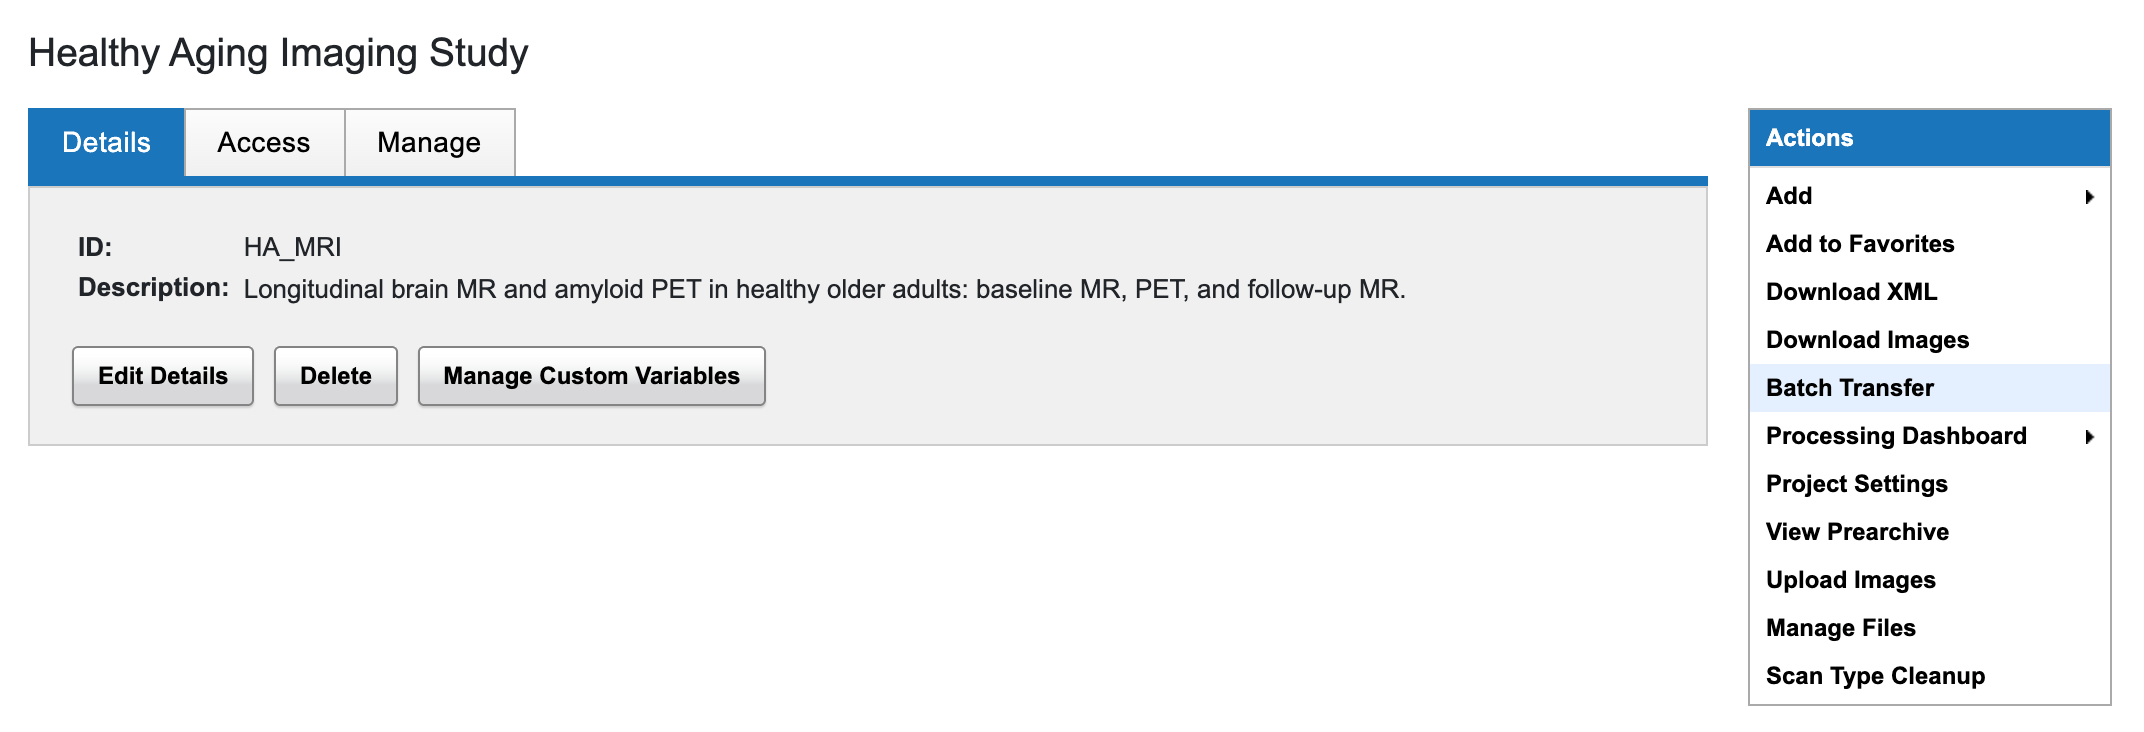
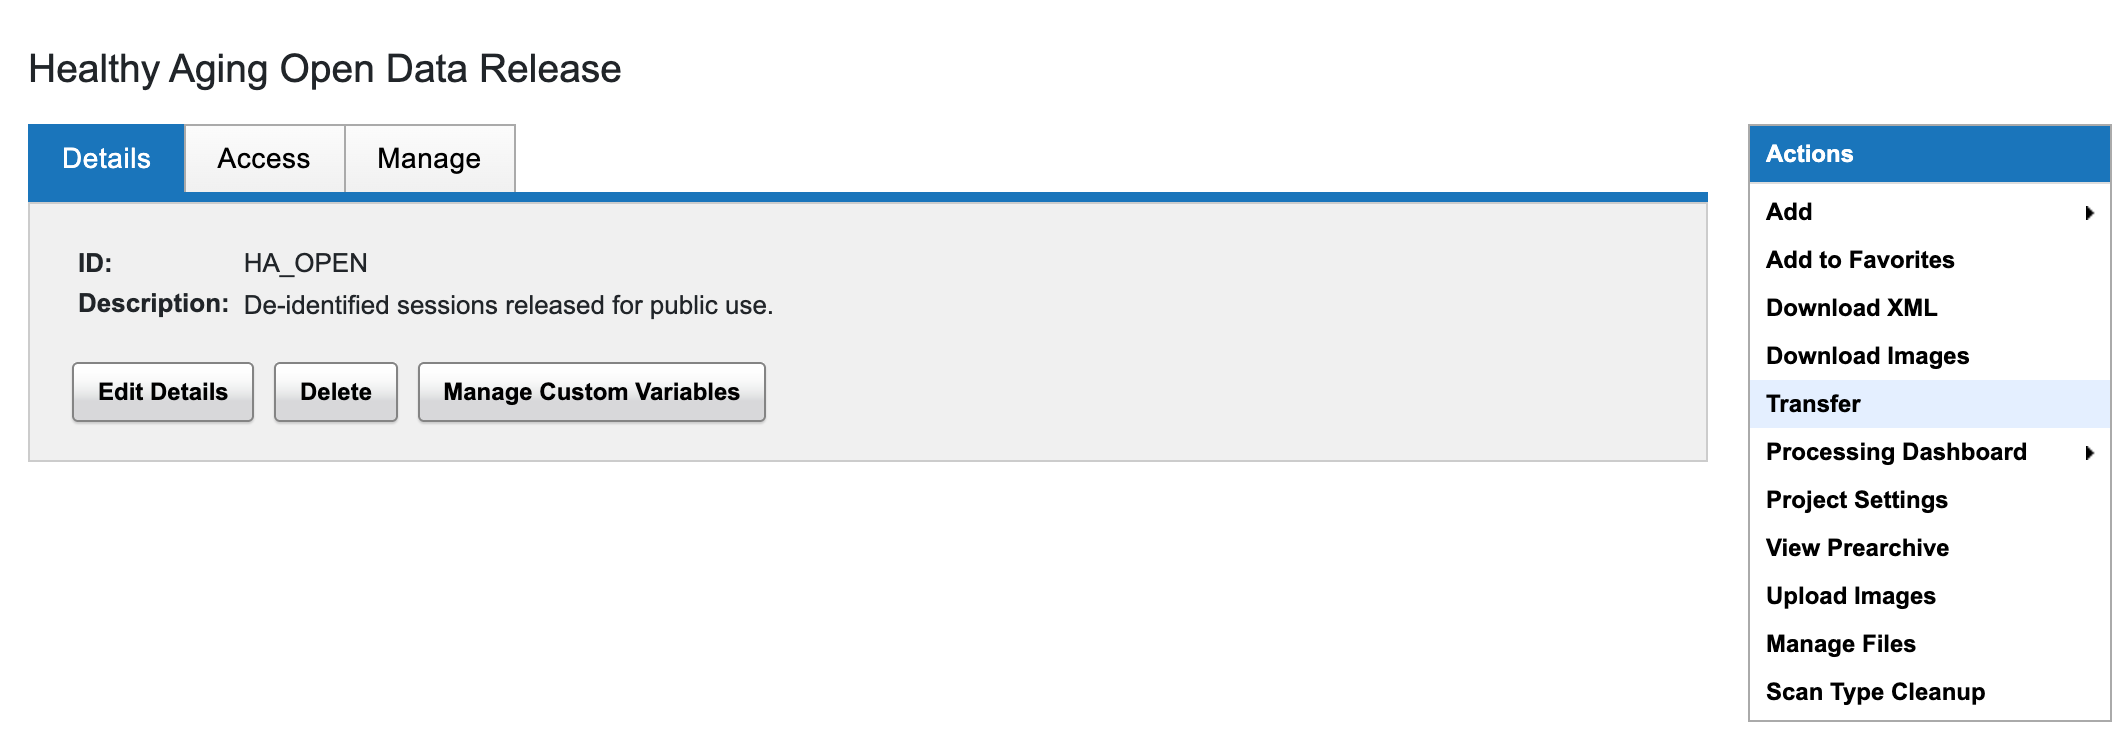
feat(ui): label the menu items Transfer and Transfer History (#40)
* feat(ui): label the menu items Transfer and Transfer History

Outside the Batch Transfer screen, the links that open it now read
"Transfer" and "Transfer History" instead of "Batch Transfer":

- a project's Actions box: Transfer (was Batch Transfer);
- a data listing's or search results' Options menu: Transfer (was
  Batch Transfer);
- the Tools menu: Transfer History (was Batch Transfer History),
  which matches the Transfer History tab in Plugin Settings.

The screen itself keeps its Batch Transfer title. The History-only
page's note and the Plugin Settings description name the new items,
as do the README, the quick start and the CHANGELOG.

* docs: retake the quick-start screenshots with the new menu labels

The Actions box, the listing's Options menu and the Tools menu now
show Transfer and Transfer History, and the History-only page and the
Plugin Settings tab show the new text that points to them. The project
page and listing shots come from HA_OPEN, since the guide's HA_MRI
project is no longer on the demo site; their captions say so.

* docs: correct the quick start's Summary and screenshot notes, and the README's Anon-Script note

- The quick start's Summary entry describes what the screen shows: what
  Batch Transfer can do between the source and destination, and that
  the source isn't changed and a submitted transfer runs in the
  background. It said "one sentence saying what will happen".
- The quick start says the site administrator's views in section 9
[…]

diff --git a/src/main/resources/META-INF/resources/scripts/xnat/plugin/batchTransfer/batchTransfer.js b/src/main/resources/META-INF/resources/scripts/xnat/plugin/batchTransfer/batchTransfer.js
@@ -2248,7 +2248,7 @@ var XNAT = getObject(XNAT || {});
             success: function() {
                 XNAT.ui.banner.top(3000, 'Transfer request submitted.', 'success');
                 XNAT.app.activityTab.start(
-                    'Batch Transfer (' + batchTransfer.requests.length + ' items)',
+                    'Transfer (' + batchTransfer.requests.length + ' items)',
                     batchTransfer.tracking_id,
                     'XNAT.plugin.batchtransfer.updateBatchTransferProgress'
                 );

diff --git a/src/main/java/org/nrg/xnat/turbine/modules/screens/XDATScreen_batch_transfer.java b/src/main/java/org/nrg/xnat/turbine/modules/screens/XDATScreen_batch_transfer.java
@@ -32,7 +32,7 @@ import java.util.stream.Collectors;
 @Slf4j
 public class XDATScreen_batch_transfer extends SecureScreen {
     private static final String FIELD_ID = "BATCH_TRANSFER_ID";
-    /** Asks for History only (Tools > Batch Transfer History), whatever search the session holds. */
+    /** Asks for History only (Tools > Transfer History), whatever search the session holds. */
     static final String HISTORY_ONLY_PARAM = "historyOnly";
 
     private static final String READABLE_SUBJECTS = "SELECT field_value,read_element,field,element_name,grp.tag, xdat_user_id\n" +

diff --git a/src/test/java/org/nrg/xnat/turbine/modules/screens/XDATScreenBatchTransferTest.java b/src/test/java/org/nrg/xnat/turbine/modules/screens/XDATScreenBatchTransferTest.java
@@ -64,7 +64,7 @@ public class XDATScreenBatchTransferTest {
         verify(context).put("siteAdmin", true);
     }
 
-    /** Tools > Batch Transfer History: a search another XNAT page left in the session is never looked up or run. */
+    /** Tools > Transfer History: a search another XNAT page left in the session is never looked up or run. */
     @Test
     public void historyOnlyAskedFor_ignoresASearchInTheSession() throws Exception {
         when(params.getBoolean(XDATScreen_batch_transfer.HISTORY_ONLY_PARAM)).thenReturn(true);

diff --git a/CHANGELOG.md b/CHANGELOG.md
@@ -14,7 +14,7 @@ Moves the plugin to **XNAT 1.10.2.1** and **JDK 21**. Adds transfer history with
 - **History tab** — the Batch Transfer screen has **New transfer** and **History** tabs. History lists the project's transfers as source or destination, newest first, 25 a page, with outcome counts or progress. A badge counts running transfers. Opening a transfer shows its details and custom script, and every item grouped by subject, failures first, with a filter for failed and stopped items. A submit opens History with the new transfer highlighted.
 - **Stop** — the user who started a transfer, or a site admin, can stop it while it's Queued or Running. Items that haven't started are skipped and end Stopped. Items already transferring finish, and nothing is undone. Stop works on every node.
 - **Export results and Export for rerun** — Export results writes every item and its outcome as CSV. Export for rerun writes a manifest of the failed and stopped sessions, to upload unchanged. It's offered only when nothing it needs is hidden from the viewer.
-- **History without a project** — **Tools > Batch Transfer History** shows any logged-in user their own transfers, including those started from search results; site admins can switch to every transfer. Site admins also find every transfer on a **Transfer History** tab under **Administer > Plugin Settings > Batch Transfer**, with run details, Stop and the exports. The address names the History view (`#history`, `#history/all`, `#history/run/<tracking id>`), so a list or a transfer can be linked to.
+- **History without a project** — **Tools > Transfer History** shows any logged-in user their own transfers, including those started from search results; site admins can switch to every transfer. Site admins also find every transfer on a **Transfer History** tab under **Administer > Plugin Settings > Batch Transfer**, with run details, Stop and the exports. The address names the History view (`#history`, `#history/all`, `#history/run/<tracking id>`), so a list or a transfer can be linked to.
 - **Subject rows in manifests** — a row with a blank `source_session_label` covers all of the subject's image sessions. A subject with none is `no_sessions`. Rows that overlap are `duplicate_session` and block Submit. Each row carries a `row_number` as a spreadsheet numbers the file, and messages name rows by it.
 - **Destination label checks before a Reimport** — on a manifest, two source subjects sent to one destination subject block Submit. These are warnings, which don't block Submit:
   - a source subject whose sessions would go to more than one destination subject;
@@ -36,6 +36,7 @@ Moves the plugin to **XNAT 1.10.2.1** and **JDK 21**. Adds transfer history with
 
 - **Breaking: requires XNAT 1.10.2.1 and JDK 21.** The plugin is compiled to Java 21 bytecode against XNAT 1.10.2.1 and does not load on XNAT 1.9.x. XNAT 1.9 sites stay on 1.1.1.
 - **DicomEdit script version 6.10 allowed** — the default allowed-version pattern is now `^6\.([0-7]|10)$`, matching DicomEdit 6.10.0 in XNAT 1.10.2.1.
+- **Menu items read Transfer** — the item in a project's **Actions** box and in a data listing's **Options** menu is now **Transfer** (it was **Batch Transfer**), and a running transfer's entry in XNAT's **Activity** tab reads **Transfer (N items)**. The screen itself is still titled Batch Transfer.
 - **New transfer layout** — a column of help topics on the left, which collapses to a strip and is remembered per viewer. A setup card holds the Transfer, Operation and Anonymization rows, and the cohort mode toggle moves into the Cohort builder header. A one-sentence summary names the source and destination.
 - **Anonymization chip** — for Reimport, it lists the scripts that will run, in order: site-wide, custom, then destination. It's grey when no script is known to run, and warns when a custom script runs alongside another. The confirmation names the same scripts.
 - **`POST /xapi/transfer` checks the batch** — it returns 400 when an item has no id, the same item is listed twice, a destination label isn't a valid XNAT label, or two Reimport items are sent to the same `destination_session_label`.

diff --git a/docs/quick-start.md b/docs/quick-start.md
@@ -35,34 +35,36 @@ have a QC assessment. The study team moves data out of HA_MRI to three other pro
 HA_OPEN has a project anonymization script that removes the birth date, sets the institution name and marks the
 patient identity as removed.
 
-The screenshots were taken by `jlee`, an owner of all four projects.
+The screenshots were taken by `jlee`, an owner of all four projects, except the site administrator's views in
+[section 9](#9-history-without-a-project).
 
 ## 2. Open Batch Transfer
 
-**From a project.** Open the source project and choose **Batch Transfer** in its **Actions** box. The item appears
+**From a project.** Open the source project and choose **Transfer** in its **Actions** box. The item appears
 for project owners, members who can edit the project's data, and site administrators.
 
-![The HA_MRI project page, with Batch Transfer in the Actions box](quick-start/images/project-actions.png)
+![The HA_OPEN project page, with Transfer in the Actions box](quick-start/images/project-actions.png)
 
-**From a listing or search results.** In any data listing, open **Options** and choose **Batch Transfer**. The screen
+**From a listing or search results.** In any data listing, open **Options** and choose **Transfer**. The screen
 opens with the items in that listing. If they come from more than one project, you can only select items in the tree,
 because a manifest needs a single source project.
 
-![The Options menu of HA_MRI's subject listing, with Batch Transfer](quick-start/images/listing-options.png)
+![The Options menu of HA_OPEN's subject listing, with Transfer](quick-start/images/listing-options.png)
 
-**To look at past transfers only**, use **Tools > Batch Transfer History** (see
+**To look at past transfers only**, use **Tools > Transfer History** (see
 [History without a project](#9-history-without-a-project)).
 
 ## 3. A tour of the screen
 
-![The Batch Transfer screen opened from HA_MRI, with HA_CONSORTIUM chosen as the destination](quick-start/images/screen-overview.png)
+![The Batch Transfer screen opened from HA_OPEN, with HA_CONSORTIUM chosen as the destination](quick-start/images/screen-overview.png)
 
 The screen has two tabs: **New transfer**, where you set up a transfer, and **History**, which lists past and
 running transfers. New transfer has these parts, from top to bottom:
 
 - **Help** (left): a short topic for each part of the screen. Click **«** to hide the column and **»** to show it
   again; Batch Transfer remembers your choice. The **?** next to each heading scrolls the column to its topic.
-- **Summary**: one sentence saying what will happen, naming the source and destination.
+- **Summary**: what Batch Transfer can do between the source and destination it names, and a reminder that the
+  source isn't changed and that a submitted transfer runs in the background.
 - **Transfer**: the source, which is fixed by where you opened the screen, and the **Destination project** list,
   which shows each project's running title.
 - **Operation**: Share, Clone or Reimport.
@@ -304,10 +306,10 @@ if History hides some of the details the manifest would need from you.
 
 ## 9. History without a project
 
-**Tools > Batch Transfer History** opens History by itself, with the transfers you started from anywhere, including
+**Tools > Transfer History** opens History by itself, with the transfers you started from anywhere, including
 from search results. Any logged-in user can open it.
 
-![The Tools menu, with Batch Transfer History](quick-start/images/tools-menu.png)
+![The Tools menu, with Transfer History](quick-start/images/tools-menu.png)
 
 ![Your transfers on the History page](quick-start/images/history-only.png)
 

diff --git a/README.md b/README.md
@@ -24,7 +24,7 @@ New to Batch Transfer? The [quick start](docs/quick-start.md) walks through each
 ### Cohort and anonymization options
 
 - **CSV manifest (Reimport)** — select sessions by uploading a CSV (`source_subject_label`, `source_session_label`; a blank session label means all of the subject's sessions) instead of ticking rows. Other columns can set destination labels (`destination_subject_label`, `destination_session_label`) or feed `${csv.<column>}` placeholders in the script. A destination label in the manifest is used even when *Preserve source labels* is ticked; a blank cell falls back to that setting. Before submit, the screen checks the labels: two source subjects sent to one destination subject block Submit, and blank cells, a subject split across destination subjects, or a session label the destination already has are warnings.
-- **Custom anonymization script (Reimport)** — a DicomEdit 6 script applied to each reimported session at ingest, in addition to the site-wide and destination project scripts (the REST API can also make it replace them). Needs the importer's `Anon-Script` parameter (XNAT 1.10.1 and later, or 1.9.3.7 and later on the 1.9 line); on builds without it the option is hidden. Requires edit access on the destination project.
+- **Custom anonymization script (Reimport)** — a DicomEdit 6 script applied to each reimported session at ingest, in addition to the site-wide and destination project scripts (the REST API can also make it replace them). Needs the importer's `Anon-Script` parameter, which XNAT 1.10.2.1 has (it was added in 1.10.1); on a build without it the option is hidden. Requires edit access on the destination project.
 
 REST details: [`docs/rest-api.md`](docs/rest-api.md).
 
@@ -32,9 +32,9 @@ REST details: [`docs/rest-api.md`](docs/rest-api.md).
 
 ## Entry points
 
-1. **Project Actions menu** — the *Batch Transfer* item appears for project owners, edit-members, and admins.
-2. **Data listings and search results** — *Options > Batch Transfer* opens the same screen with the listing's items.
-3. **Tools > Batch Transfer History** — History only: the user's own transfers, for any logged-in user. Site admins also get a switch there to list every transfer.
+1. **Project Actions menu** — the *Transfer* item appears for project owners, edit-members, and admins.
+2. **Data listings and search results** — *Options > Transfer* opens the same screen with the listing's items.
+3. **Tools > Transfer History** — History only: the user's own transfers, for any logged-in user. Site admins also get a switch there to list every transfer.
 4. **Administer > Plugin Settings > Batch Transfer > Transfer History** — every transfer on the site, for site admins.
 
 ---
